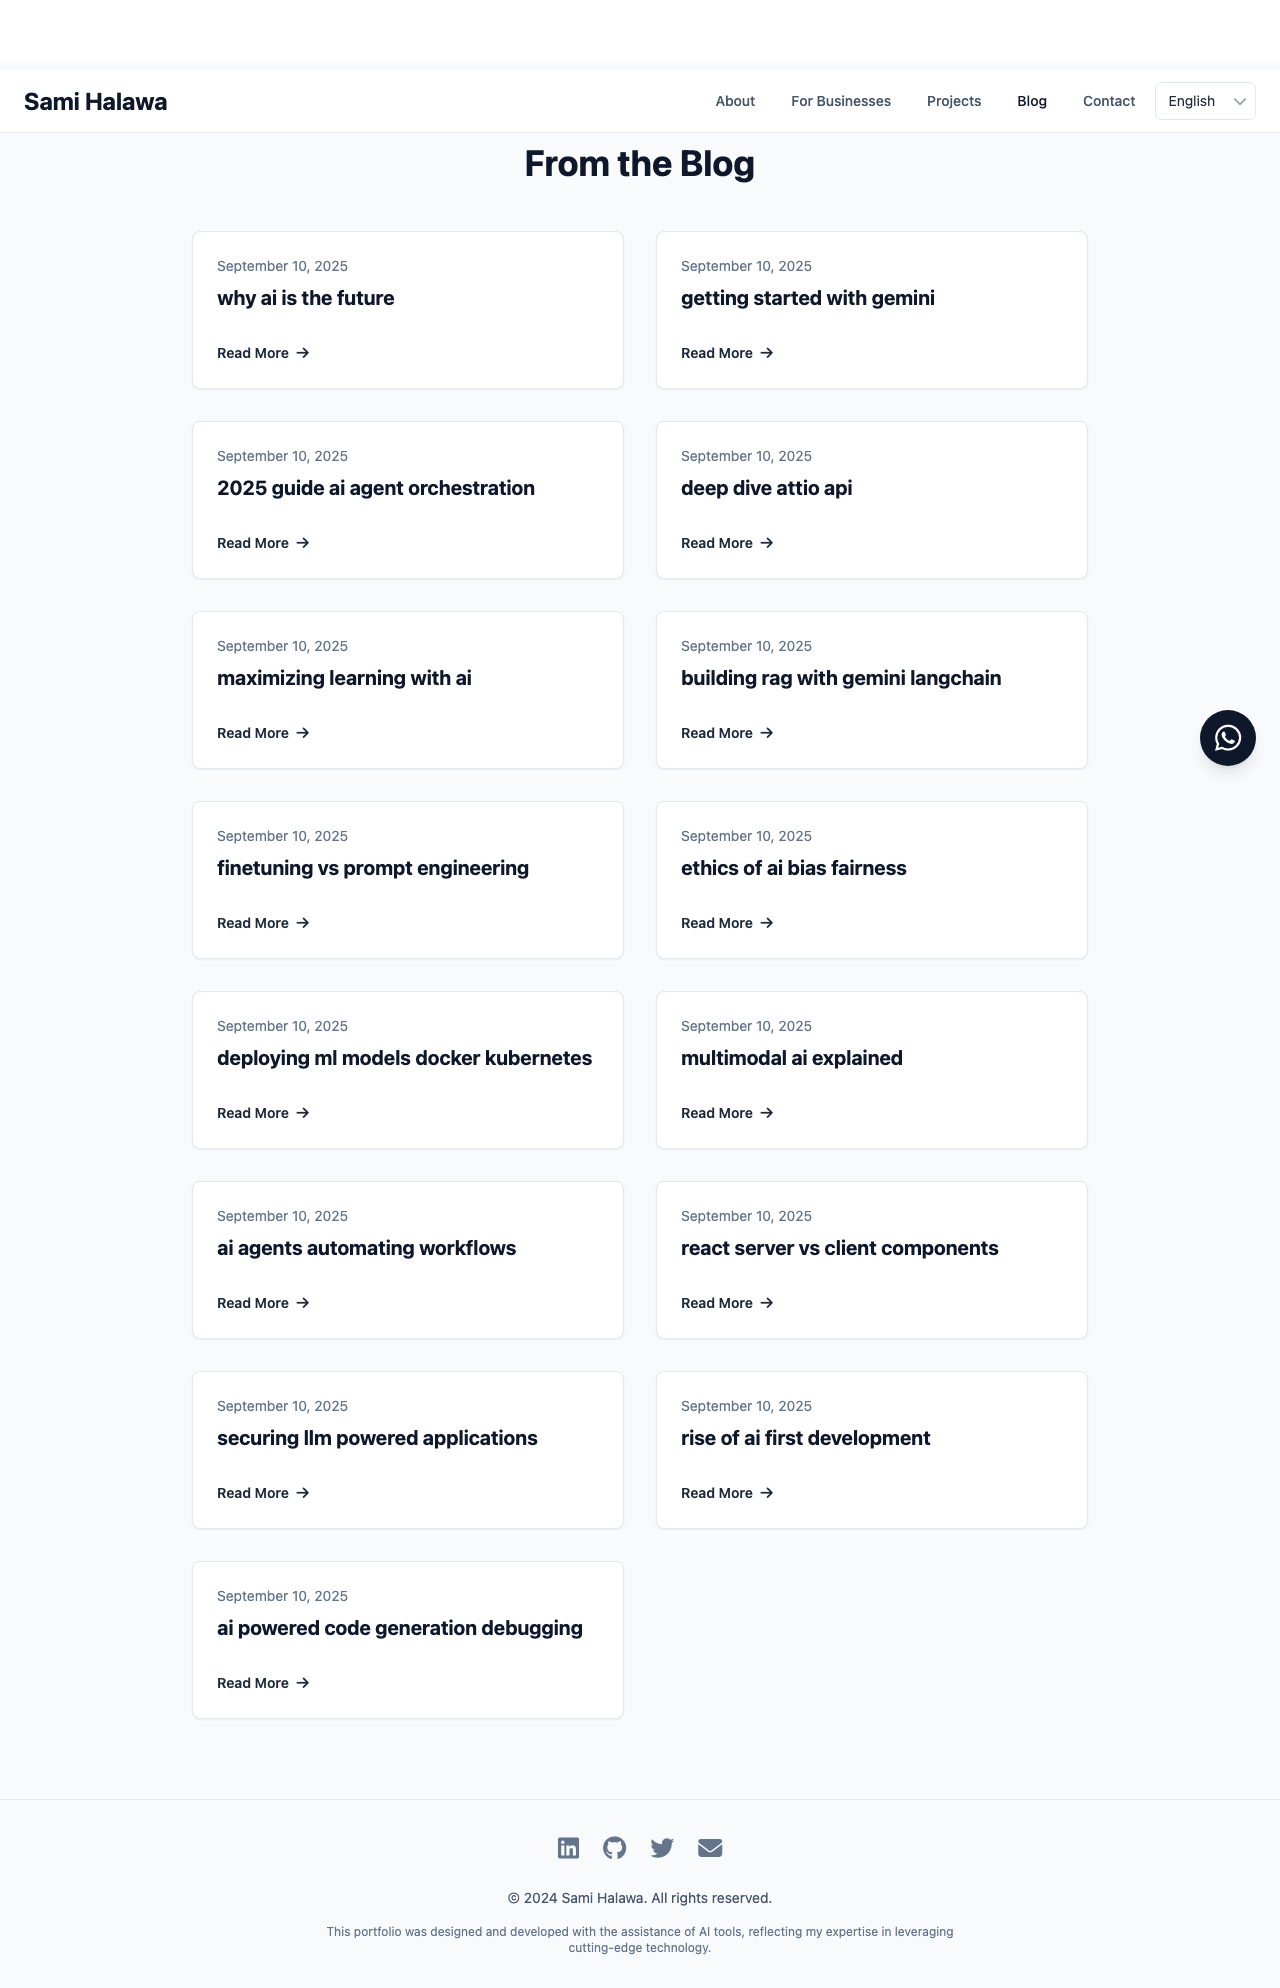
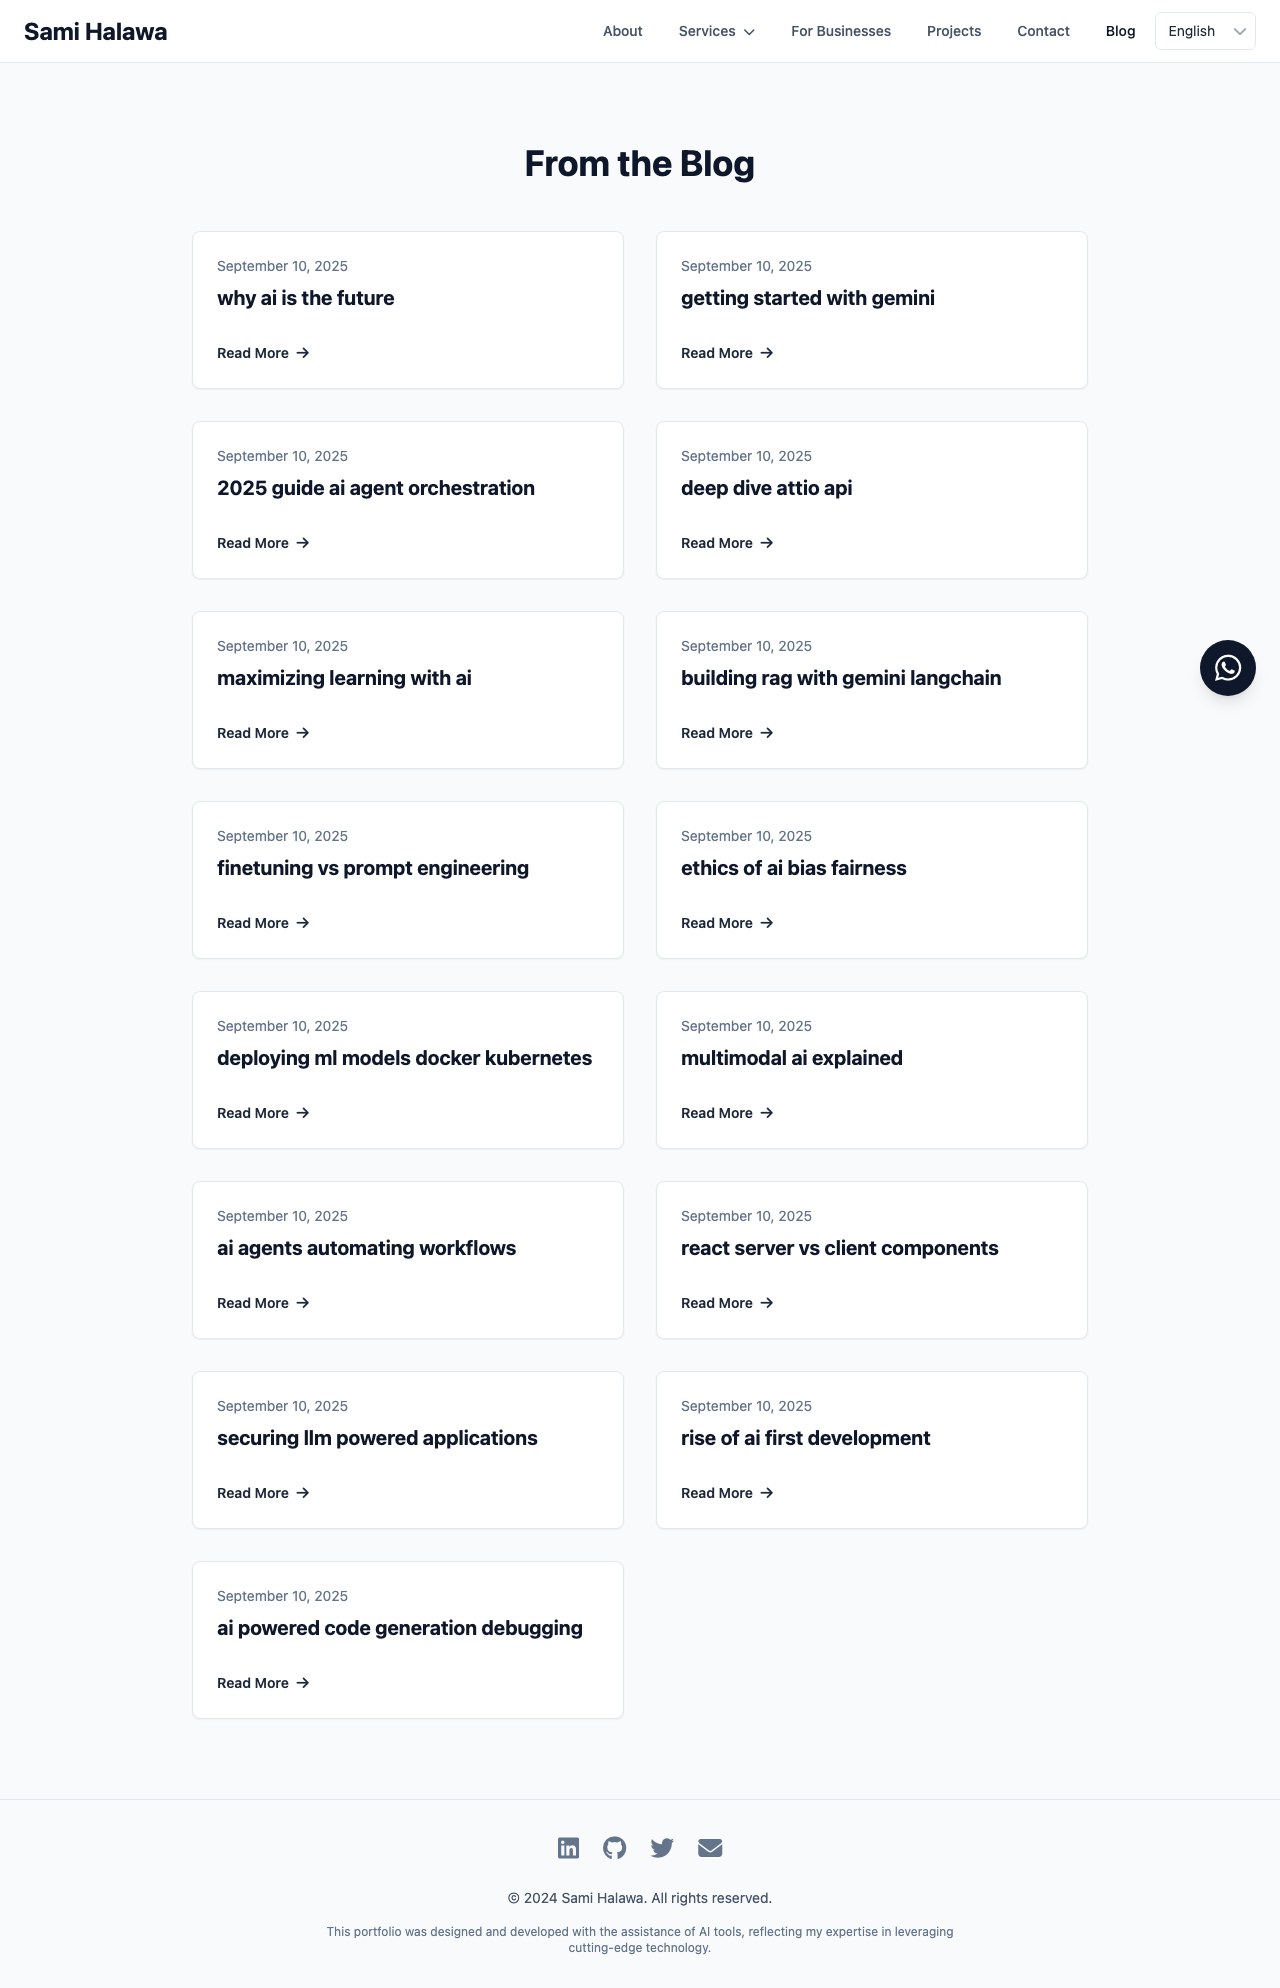
test(e2e): ensure language selector is discoverable by role and add /contact to header nav

diff --git a/components/Header.tsx b/components/Header.tsx
@@ -11,7 +11,7 @@ const Header: React.FC = () => {
     const LanguageSelector: React.FC<{mobile?: boolean}> = ({ mobile = false }) => (
         <Listbox value={language} onChange={setLanguage}>
             <div className={`relative ${mobile ? 'w-full mt-2' : 'ml-4'}`}>
-                <Listbox.Button className="relative w-full cursor-default rounded-md bg-white py-2 pl-3 pr-10 text-left border border-slate-200 focus:outline-none focus-visible:border-slate-500 focus-visible:ring-2 focus-visible:ring-white/75 focus-visible:ring-offset-2 focus-visible:ring-offset-slate-300 sm:text-sm">
+                <Listbox.Button role="button" className="relative w-full cursor-default rounded-md bg-white py-2 pl-3 pr-10 text-left border border-slate-200 focus:outline-none focus-visible:border-slate-500 focus-visible:ring-2 focus-visible:ring-white/75 focus-visible:ring-offset-2 focus-visible:ring-offset-slate-300 sm:text-sm">
                     <span className="block truncate">{selectedLanguage?.name}</span>
                     <span className="pointer-events-none absolute inset-y-0 right-0 flex items-center pr-2">
                         <i className="fas fa-chevron-down text-gray-400" aria-hidden="true" />

diff --git a/constants.ts b/constants.ts
@@ -5,6 +5,7 @@ export const NAV_LINKS: NavLink[] = [
     { href: '/services', key: 'nav.services' },
     { href: '/corporate', key: 'nav.corporate' },
     { href: '/projects', key: 'nav.projects' },
+    { href: '/contact', key: 'nav.contact' },
     { href: '/blog', key: 'nav.blog' },
 ];
 
